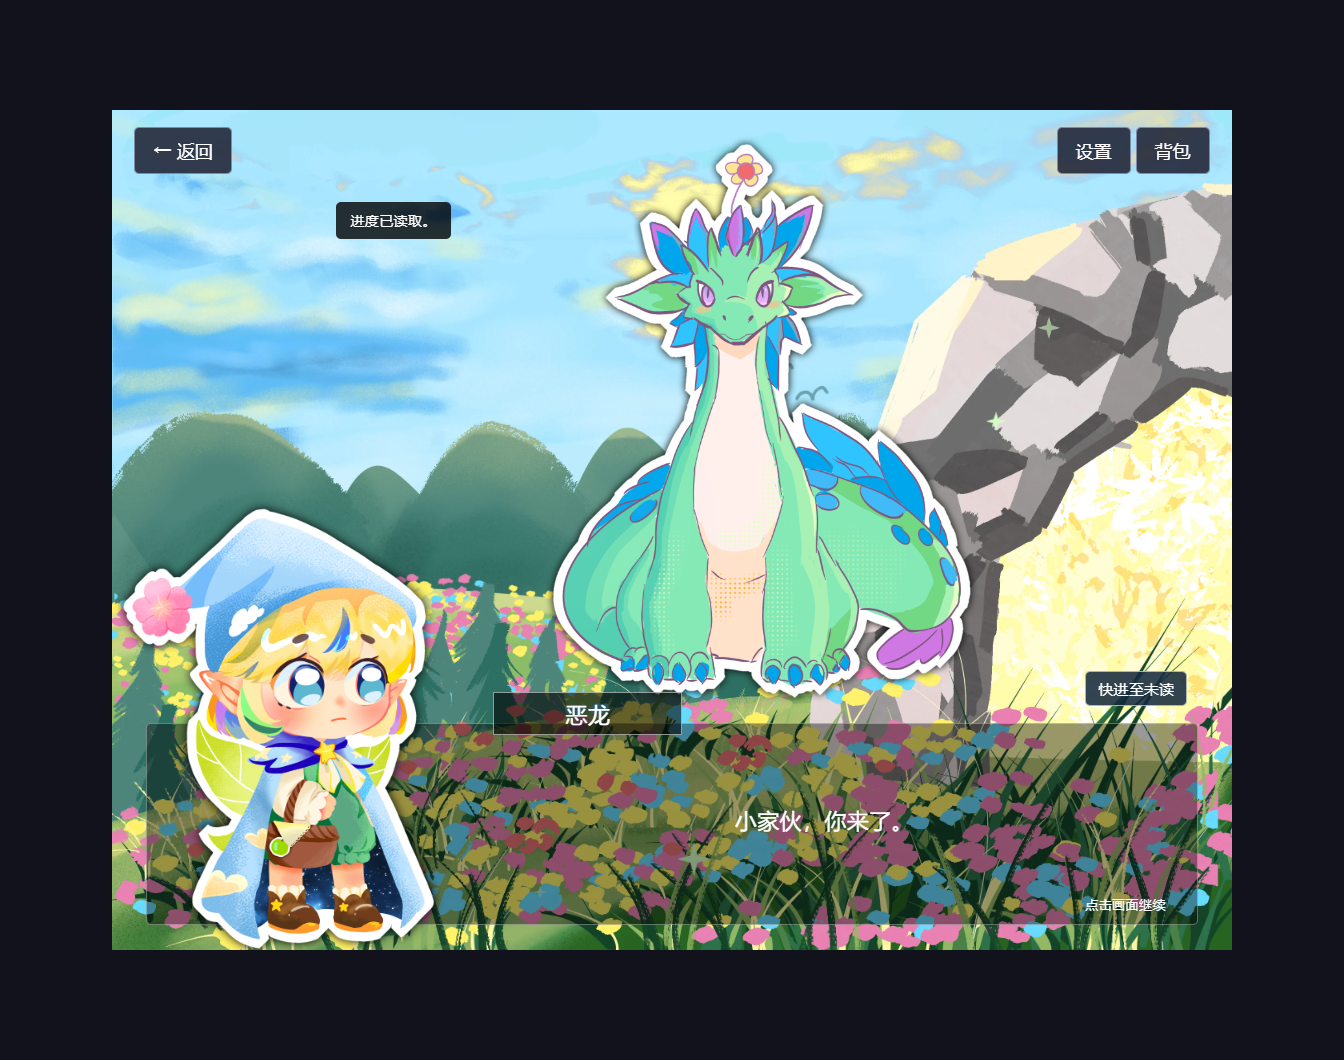
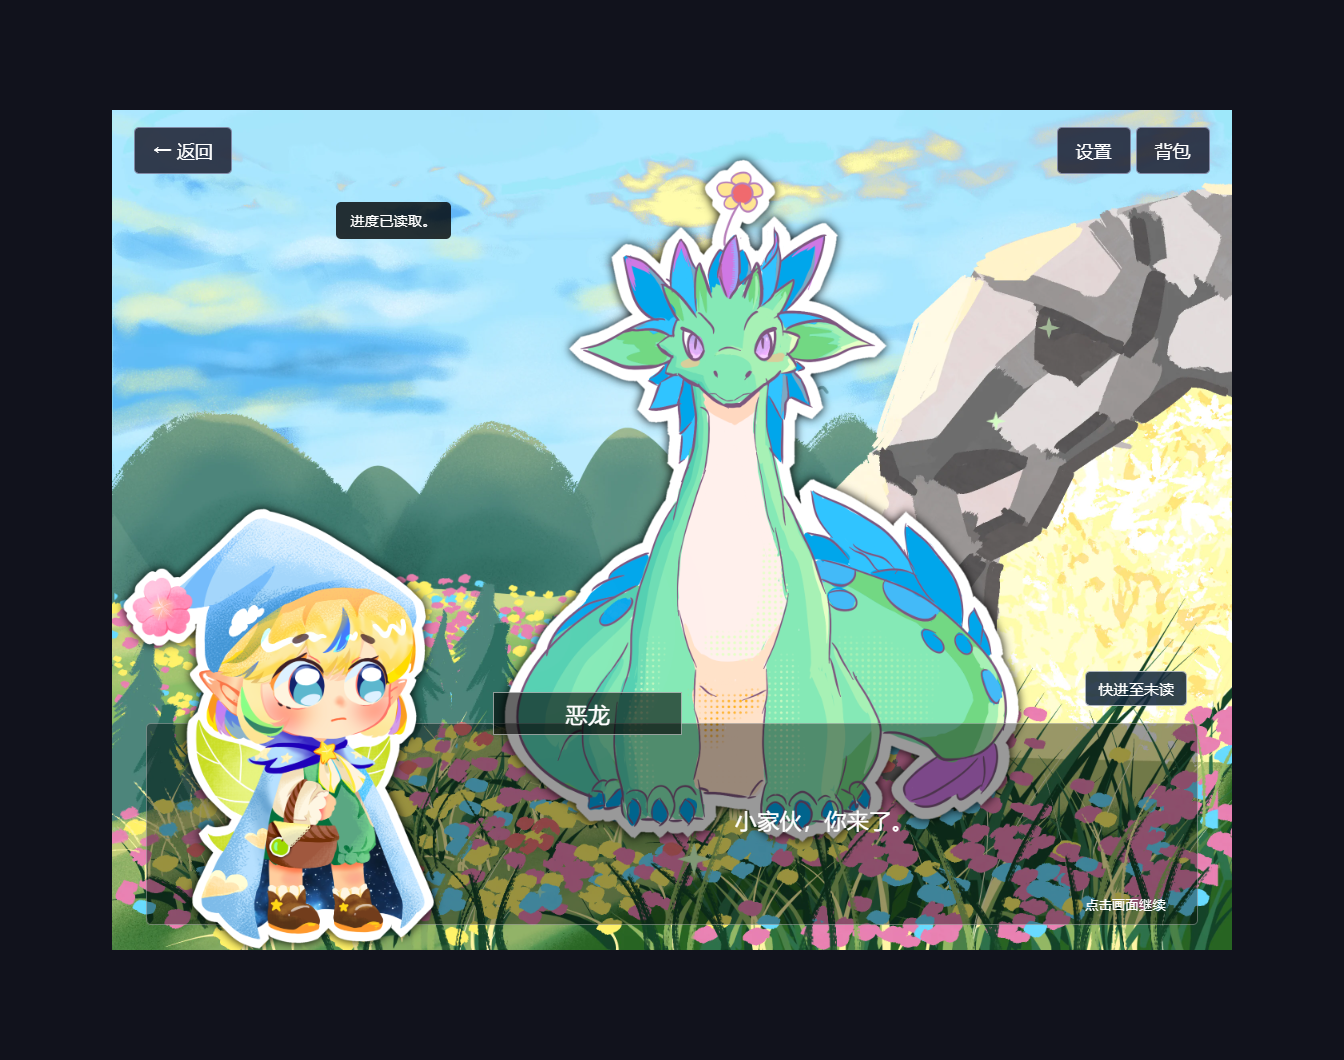
立绘再完善

Changed region(s): [[0.375, 0.1245, 0.7812, 0.8094]]

diff --git a/src/style.css b/src/style.css
@@ -163,5 +163,5 @@ header{position:absolute;inset:2% 2% auto;display:flex;justify-content:space-bet
 .player-portrait.ending-dialogue-portrait{left:5%;bottom:7%;width:26.0417%;height:44.6429%}
 .ending-dialogue-portrait .sprite-art{width:100%;height:100%}
 
-.npc-portrait.dragon-full-body{left:34%;top:3%;width:48%;height:68%;object-fit:contain}
+.npc-portrait.dragon-full-body{left:34%;top:3%;width:48%;height:87%;object-fit:contain}
 .dragon-full-body .sprite-art{width:100%;height:100%}
